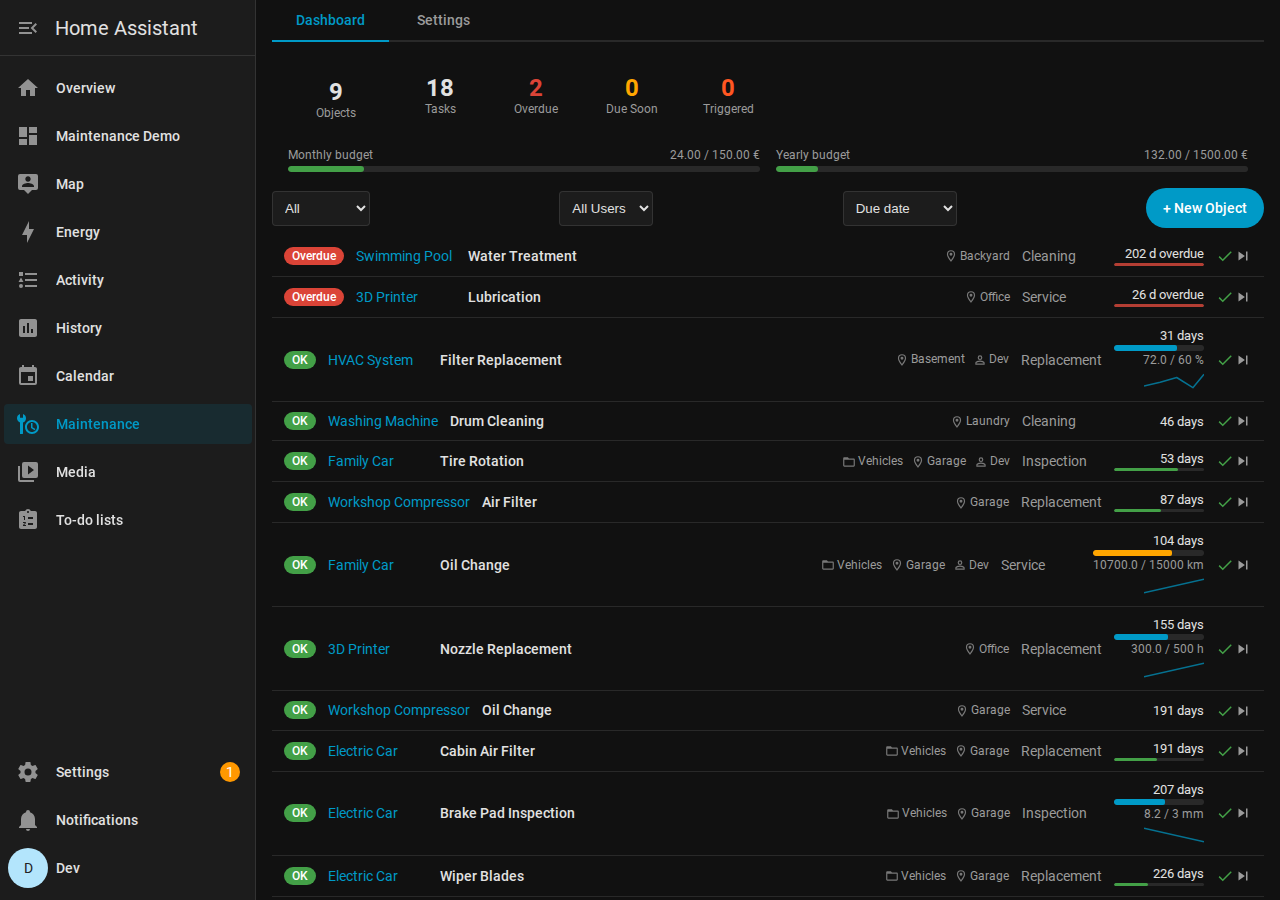
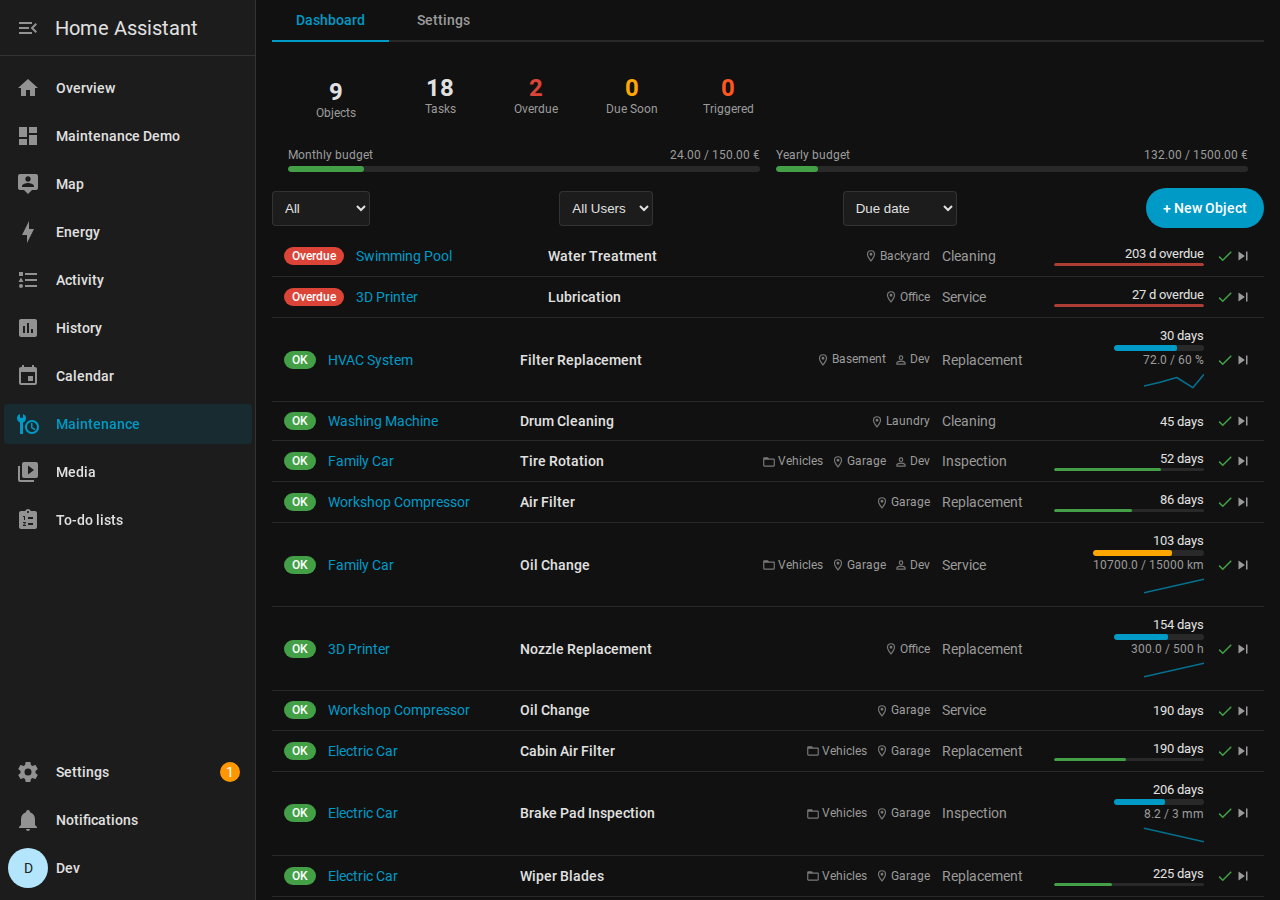
fix(panel): align task-row columns with CSS grid (#36 follow-up)
The 1.0.42 chip change kept the existing flex-based row layout, where
.task-name had flex:1 and every other cell sized to its content. As soon
as some rows had chips and others didn't (or had wider/narrower trigger
text), the type/due/actions columns shifted by a few pixels per row and
the table looked ragged.

Switched .task-row to a 7-column CSS grid with explicit tracks:
  badges | object 100-180px | task-name 1fr | chips 0-220px | type 100px | due 150px | actions auto

Empty chip cells still occupy their grid slot (.task-sub-empty), so all
seven columns line up across rows regardless of which optional badges or
chips a particular task carries.

Mobile (:host([narrow])) and the @media(max-width:600px) fallback both
override .task-row back to the previous flex+wrap layout so the existing
single-column-stack mobile design is unchanged. .task-sub-empty is
display:none on mobile so it doesn't take a wrap slot.

Status/disabled/NFC badges moved into a .cell-badges flex wrapper so they
share one grid column instead of consuming three.

diff --git a/custom_components/maintenance_supporter/frontend/maintenance-panel.js b/custom_components/maintenance_supporter/frontend/maintenance-panel.js
@@ -1085,7 +1085,17 @@ Testar press\xE3o`,checklist_help:"Um passo por linha. M\xE1x. 100 itens.",err_t
   .task-table { display: flex; flex-direction: column; }
 
   .task-row {
-    display: flex;
+    /* Desktop: 7-column grid keeps every column aligned across rows regardless
+       of which optional chips/badges this particular row carries. */
+    display: grid;
+    grid-template-columns:
+      auto                         /* badges */
+      minmax(100px, 180px)         /* object-name */
+      minmax(120px, 1fr)           /* task-name */
+      minmax(0, 220px)             /* task-sub (chips) */
+      100px                        /* type */
+      150px                        /* due-cell */
+      auto;                        /* row-actions */
     align-items: center;
     gap: 12px;
     padding: 10px 12px;
@@ -1098,10 +1108,17 @@ Testar press\xE3o`,checklist_help:"Um passo por linha. M\xE1x. 100 itens.",err_t
     background: var(--table-row-alternative-background-color, rgba(0, 0, 0, 0.04));
   }
 
+  /* Wrapper for status + optional disabled/NFC badges so they share one grid column */
+  .cell-badges {
+    display: flex;
+    align-items: center;
+    gap: 6px;
+  }
+
   .cell { font-size: 14px; }
-  .cell.object-name { color: var(--primary-color); cursor: pointer; min-width: 100px; }
-  .cell.task-name { flex: 1; font-weight: 500; }
-  .cell.type { min-width: 80px; color: var(--secondary-text-color); }
+  .cell.object-name { color: var(--primary-color); cursor: pointer; }
+  .cell.task-name { font-weight: 500; }
+  .cell.type { color: var(--secondary-text-color); }
 
   /* Task subline chips (group / area / assigned user) — desktop shows inline, mobile wraps below */
   .task-sub {
@@ -1111,7 +1128,10 @@ Testar press\xE3o`,checklist_help:"Um passo por linha. M\xE1x. 100 itens.",err_t
     font-size: 12px;
     color: var(--secondary-text-color);
     flex-wrap: wrap;
+    justify-content: flex-end;
   }
+  /* Empty subline still occupies its grid slot so neighbouring columns line up */
+  .task-sub-empty { min-height: 1px; }
   .sub-chip {
     display: inline-flex;
     align-items: center;
@@ -1799,6 +1819,8 @@ Testar press\xE3o`,checklist_help:"Um passo por linha. M\xE1x. 100 itens.",err_t
   }
 
   :host([narrow]) .task-row {
+    /* Mobile: drop the desktop grid and flex-wrap with task-name as own line */
+    display: flex;
     flex-wrap: wrap;
     gap: 8px;
     padding: 12px;
@@ -1806,13 +1828,15 @@ Testar press\xE3o`,checklist_help:"Um passo por linha. M\xE1x. 100 itens.",err_t
 
   :host([narrow]) .cell.type { display: none; }
   :host([narrow]) .cell.object-name { min-width: auto; }
-  :host([narrow]) .cell.task-name { flex-basis: 100%; order: -1; }
+  :host([narrow]) .cell.task-name { flex-basis: 100%; order: -1; flex: 1 1 100%; }
   :host([narrow]) .task-sub {
     flex-basis: 100%;
     order: 10;
     font-size: 11px;
     gap: 6px;
+    justify-content: flex-start;
   }
+  :host([narrow]) .task-sub-empty { display: none; }
 
   :host([narrow]) .detail-header {
     flex-direction: column;
@@ -1934,10 +1958,12 @@ Testar press\xE3o`,checklist_help:"Um passo por linha. M\xE1x. 100 itens.",err_t
     .task-header-actions { width: 100%; justify-content: flex-start; }
     .filter-bar { flex-wrap: wrap; }
     .filter-bar select { flex: 1; min-width: 0; }
-    .task-row { flex-wrap: wrap; gap: 8px; padding: 12px; }
+    .task-row { display: flex; flex-wrap: wrap; gap: 8px; padding: 12px; }
     .cell.type { display: none; }
     .cell.object-name { min-width: auto; }
-    .cell.task-name { flex-basis: 100%; order: -1; }
+    .cell.task-name { flex-basis: 100%; order: -1; flex: 1 1 100%; }
+    .task-sub { flex-basis: 100%; order: 10; font-size: 11px; gap: 6px; justify-content: flex-start; }
+    .task-sub-empty { display: none; }
     .detail-header { flex-direction: column; align-items: flex-start; }
     .info-grid { grid-template-columns: 1fr; }
     .history-filters-new { flex-direction: column; }
@@ -3894,27 +3920,27 @@ ${Y}`,e.setTooltip)}
       </div>
     `}_renderOverviewRow(e){let t=this._lang,i=e.schedule_type==="time_based"&&e.interval_days&&e.interval_days>0,s=0,l=Ee.ok,c=!1;if(i&&e.days_until_due!==null){let h=(e.interval_days-e.days_until_due)/e.interval_days*100;s=Math.max(0,Math.min(100,h)),c=h>100,e.status==="overdue"?l=Ee.overdue:e.status==="due_soon"&&(l=Ee.due_soon)}let _=e.area_id?this.hass?.areas?.[e.area_id]?.name:null,p=e.responsible_user_id?this._userService?.getUserName(e.responsible_user_id):null,m=e.group_names.length>0||_||p;return o`
       <div class="task-row${e.enabled?"":" task-disabled"}">
-        <span class="status-badge ${e.status}">${a(e.status,t)}</span>
-        ${e.enabled?d:o`<span class="badge-disabled">${a("disabled",t)}</span>`}
-        ${e.nfc_tag_id?o`<span class="nfc-badge" title="${a("nfc_linked",t)}"><ha-icon icon="mdi:nfc-variant"></ha-icon></span>`:d}
+        <span class="cell-badges">
+          <span class="status-badge ${e.status}">${a(e.status,t)}</span>
+          ${e.enabled?d:o`<span class="badge-disabled">${a("disabled",t)}</span>`}
+          ${e.nfc_tag_id?o`<span class="nfc-badge" title="${a("nfc_linked",t)}"><ha-icon icon="mdi:nfc-variant"></ha-icon></span>`:d}
+        </span>
         <span class="cell object-name" @click=${h=>{h.stopPropagation(),this._showObject(e.entry_id)}}>${e.object_name}</span>
         <span class="cell task-name" @click=${()=>this._showTask(e.entry_id,e.task_id)}>${e.task_name}</span>
-        ${m?o`
-          <span class="task-sub">
-            ${e.group_names.length>0?o`
-              <span class="sub-chip" title="${a("groups",t)}">
-                <ha-icon icon="mdi:folder-outline"></ha-icon>${e.group_names.join(", ")}
-              </span>`:d}
-            ${_?o`
-              <span class="sub-chip">
-                <ha-icon icon="mdi:map-marker-outline"></ha-icon>${_}
-              </span>`:d}
-            ${p?o`
-              <span class="sub-chip" title="${a("responsible_user",t)}">
-                <ha-icon icon="mdi:account-outline"></ha-icon>${p}
-              </span>`:d}
-          </span>
-        `:d}
+        <span class="task-sub${m?"":" task-sub-empty"}">
+          ${e.group_names.length>0?o`
+            <span class="sub-chip" title="${a("groups",t)}">
+              <ha-icon icon="mdi:folder-outline"></ha-icon>${e.group_names.join(", ")}
+            </span>`:d}
+          ${_?o`
+            <span class="sub-chip">
+              <ha-icon icon="mdi:map-marker-outline"></ha-icon>${_}
+            </span>`:d}
+          ${p?o`
+            <span class="sub-chip" title="${a("responsible_user",t)}">
+              <ha-icon icon="mdi:account-outline"></ha-icon>${p}
+            </span>`:d}
+        </span>
         <span class="cell type">${a(e.type,t)}</span>
         <span class="due-cell" @click=${()=>this._showTask(e.entry_id,e.task_id)}>
           <span class="due-text">${Ae(e.days_until_due,t)}</span>

diff --git a/custom_components/maintenance_supporter/frontend-src/panel-styles.ts b/custom_components/maintenance_supporter/frontend-src/panel-styles.ts
@@ -62,7 +62,17 @@ export const panelStyles = css`
   .task-table { display: flex; flex-direction: column; }
 
   .task-row {
-    display: flex;
+    /* Desktop: 7-column grid keeps every column aligned across rows regardless
+       of which optional chips/badges this particular row carries. */
+    display: grid;
+    grid-template-columns:
+      auto                         /* badges */
+      minmax(100px, 180px)         /* object-name */
+      minmax(120px, 1fr)           /* task-name */
+      minmax(0, 220px)             /* task-sub (chips) */
+      100px                        /* type */
+      150px                        /* due-cell */
+      auto;                        /* row-actions */
     align-items: center;
     gap: 12px;
     padding: 10px 12px;
@@ -75,10 +85,17 @@ export const panelStyles = css`
     background: var(--table-row-alternative-background-color, rgba(0, 0, 0, 0.04));
   }
 
+  /* Wrapper for status + optional disabled/NFC badges so they share one grid column */
+  .cell-badges {
+    display: flex;
+    align-items: center;
+    gap: 6px;
+  }
+
   .cell { font-size: 14px; }
-  .cell.object-name { color: var(--primary-color); cursor: pointer; min-width: 100px; }
-  .cell.task-name { flex: 1; font-weight: 500; }
-  .cell.type { min-width: 80px; color: var(--secondary-text-color); }
+  .cell.object-name { color: var(--primary-color); cursor: pointer; }
+  .cell.task-name { font-weight: 500; }
+  .cell.type { color: var(--secondary-text-color); }
 
   /* Task subline chips (group / area / assigned user) — desktop shows inline, mobile wraps below */
   .task-sub {
@@ -88,7 +105,10 @@ export const panelStyles = css`
     font-size: 12px;
     color: var(--secondary-text-color);
     flex-wrap: wrap;
+    justify-content: flex-end;
   }
+  /* Empty subline still occupies its grid slot so neighbouring columns line up */
+  .task-sub-empty { min-height: 1px; }
   .sub-chip {
     display: inline-flex;
     align-items: center;
@@ -776,6 +796,8 @@ export const panelStyles = css`
   }
 
   :host([narrow]) .task-row {
+    /* Mobile: drop the desktop grid and flex-wrap with task-name as own line */
+    display: flex;
     flex-wrap: wrap;
     gap: 8px;
     padding: 12px;
@@ -783,13 +805,15 @@ export const panelStyles = css`
 
   :host([narrow]) .cell.type { display: none; }
   :host([narrow]) .cell.object-name { min-width: auto; }
-  :host([narrow]) .cell.task-name { flex-basis: 100%; order: -1; }
+  :host([narrow]) .cell.task-name { flex-basis: 100%; order: -1; flex: 1 1 100%; }
   :host([narrow]) .task-sub {
     flex-basis: 100%;
     order: 10;
     font-size: 11px;
     gap: 6px;
+    justify-content: flex-start;
   }
+  :host([narrow]) .task-sub-empty { display: none; }
 
   :host([narrow]) .detail-header {
     flex-direction: column;
@@ -911,10 +935,12 @@ export const panelStyles = css`
     .task-header-actions { width: 100%; justify-content: flex-start; }
     .filter-bar { flex-wrap: wrap; }
     .filter-bar select { flex: 1; min-width: 0; }
-    .task-row { flex-wrap: wrap; gap: 8px; padding: 12px; }
+    .task-row { display: flex; flex-wrap: wrap; gap: 8px; padding: 12px; }
     .cell.type { display: none; }
     .cell.object-name { min-width: auto; }
-    .cell.task-name { flex-basis: 100%; order: -1; }
+    .cell.task-name { flex-basis: 100%; order: -1; flex: 1 1 100%; }
+    .task-sub { flex-basis: 100%; order: 10; font-size: 11px; gap: 6px; justify-content: flex-start; }
+    .task-sub-empty { display: none; }
     .detail-header { flex-direction: column; align-items: flex-start; }
     .info-grid { grid-template-columns: 1fr; }
     .history-filters-new { flex-direction: column; }

diff --git a/custom_components/maintenance_supporter/frontend-src/maintenance-panel.ts b/custom_components/maintenance_supporter/frontend-src/maintenance-panel.ts
@@ -972,27 +972,27 @@ export class MaintenanceSupporterPanel extends LitElement {
 
     return html`
       <div class="task-row${!row.enabled ? ' task-disabled' : ''}">
-        <span class="status-badge ${row.status}">${t(row.status, L)}</span>
-        ${!row.enabled ? html`<span class="badge-disabled">${t("disabled", L)}</span>` : nothing}
-        ${row.nfc_tag_id ? html`<span class="nfc-badge" title="${t("nfc_linked", L)}"><ha-icon icon="mdi:nfc-variant"></ha-icon></span>` : nothing}
+        <span class="cell-badges">
+          <span class="status-badge ${row.status}">${t(row.status, L)}</span>
+          ${!row.enabled ? html`<span class="badge-disabled">${t("disabled", L)}</span>` : nothing}
+          ${row.nfc_tag_id ? html`<span class="nfc-badge" title="${t("nfc_linked", L)}"><ha-icon icon="mdi:nfc-variant"></ha-icon></span>` : nothing}
+        </span>
         <span class="cell object-name" @click=${(e: Event) => { e.stopPropagation(); this._showObject(row.entry_id); }}>${row.object_name}</span>
         <span class="cell task-name" @click=${() => this._showTask(row.entry_id, row.task_id)}>${row.task_name}</span>
-        ${hasSub ? html`
-          <span class="task-sub">
-            ${row.group_names.length > 0 ? html`
-              <span class="sub-chip" title="${t("groups", L)}">
-                <ha-icon icon="mdi:folder-outline"></ha-icon>${row.group_names.join(", ")}
-              </span>` : nothing}
-            ${areaName ? html`
-              <span class="sub-chip">
-                <ha-icon icon="mdi:map-marker-outline"></ha-icon>${areaName}
-              </span>` : nothing}
-            ${userName ? html`
-              <span class="sub-chip" title="${t("responsible_user", L)}">
-                <ha-icon icon="mdi:account-outline"></ha-icon>${userName}
-              </span>` : nothing}
-          </span>
-        ` : nothing}
+        <span class="task-sub${hasSub ? '' : ' task-sub-empty'}">
+          ${row.group_names.length > 0 ? html`
+            <span class="sub-chip" title="${t("groups", L)}">
+              <ha-icon icon="mdi:folder-outline"></ha-icon>${row.group_names.join(", ")}
+            </span>` : nothing}
+          ${areaName ? html`
+            <span class="sub-chip">
+              <ha-icon icon="mdi:map-marker-outline"></ha-icon>${areaName}
+            </span>` : nothing}
+          ${userName ? html`
+            <span class="sub-chip" title="${t("responsible_user", L)}">
+              <ha-icon icon="mdi:account-outline"></ha-icon>${userName}
+            </span>` : nothing}
+        </span>
         <span class="cell type">${t(row.type, L)}</span>
         <span class="due-cell" @click=${() => this._showTask(row.entry_id, row.task_id)}>
           <span class="due-text">${formatDueDays(row.days_until_due, L)}</span>
